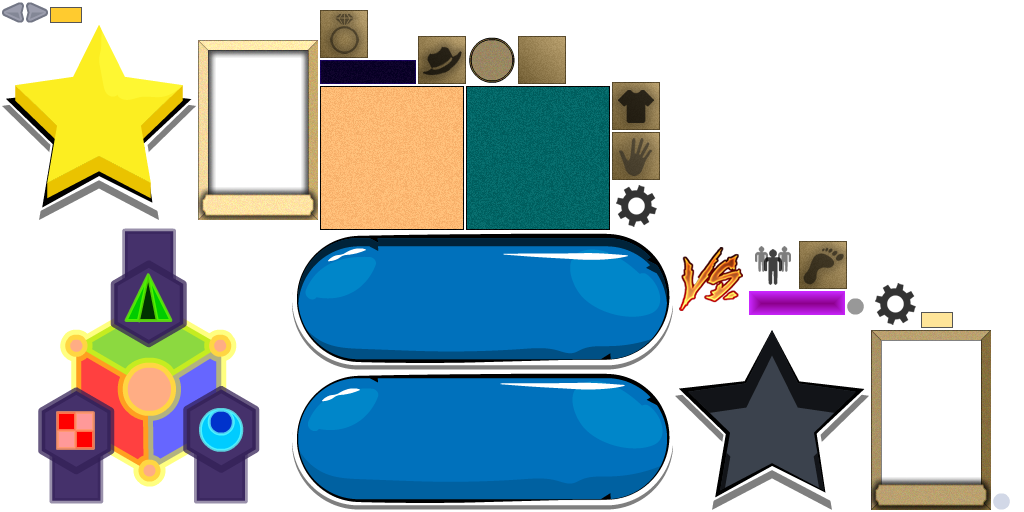
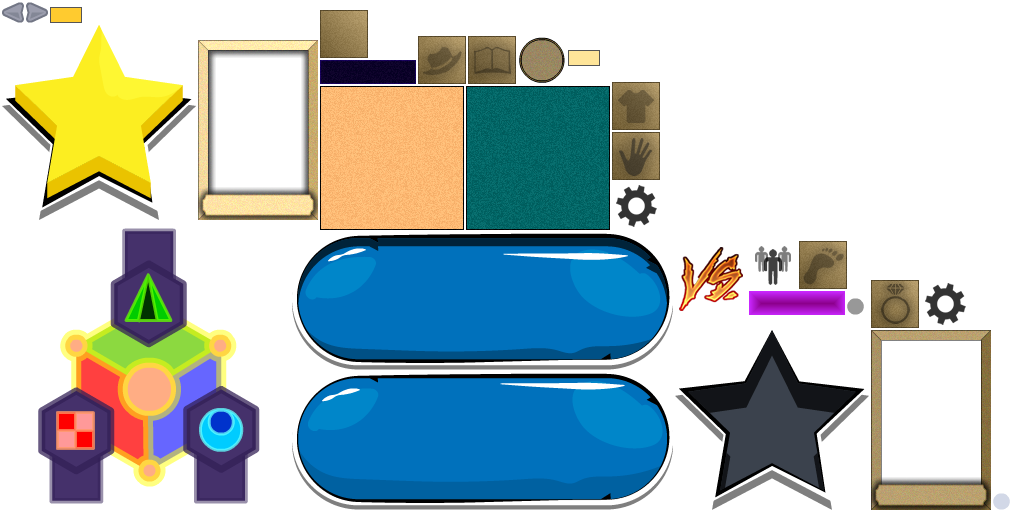
display inventory

diff --git a/android/core/src/com/game7th/swipe/campaign/party/PersonageTabView.kt b/android/core/src/com/game7th/swipe/campaign/party/PersonageTabView.kt
@@ -3,13 +3,18 @@ package com.game7th.swipe.campaign.party
 import com.badlogic.gdx.graphics.Color
 import com.badlogic.gdx.scenes.scene2d.Group
 import com.badlogic.gdx.scenes.scene2d.Touchable
+import com.badlogic.gdx.scenes.scene2d.actions.MoveByAction
+import com.badlogic.gdx.scenes.scene2d.actions.RunnableAction
+import com.badlogic.gdx.scenes.scene2d.actions.SequenceAction
 import com.badlogic.gdx.scenes.scene2d.ui.Image
 import com.badlogic.gdx.scenes.scene2d.ui.Label
 import com.badlogic.gdx.scenes.scene2d.utils.TextureRegionDrawable
 import com.badlogic.gdx.utils.Align
 import com.game7th.metagame.account.AccountService
+import com.game7th.metagame.inventory.GearService
 import com.game7th.metagame.unit.UnitConfig
 import com.game7th.swipe.ScreenContext
+import com.game7th.swipe.campaign.inventory.InventoryEditor
 import com.game7th.swipe.campaign.plist.PersonageVerticalPortrait
 import ktx.actors.onClick
 import kotlin.math.exp
@@ -21,13 +26,14 @@ sealed class UiState {
 
 class PersonageTabView(
         private val context: ScreenContext,
-        private val service: AccountService,
+        private val accountService: AccountService,
+        private val gearService: GearService,
         private val personageId: Int
 ) : Group() {
 
     var state: UiState = UiState.Initial
 
-    private val personage = service.getPersonages().first { it.id == personageId }
+    private val personage = accountService.getPersonages().first { it.id == personageId }
 
     val bg = Image(context.uiAtlas.findRegion("ui_dialog")).apply {
         width = 480f * context.scale
@@ -120,6 +126,8 @@ class PersonageTabView(
         height = 30f * context.scale
     }
 
+    var inventoryView: InventoryEditor? = null
+
     init {
         addActor(bg)
         addActor(portrait)
@@ -147,6 +155,10 @@ class PersonageTabView(
         }
     }
 
+    fun hide() {
+        transiteUiState(UiState.Initial)
+    }
+
     private fun transiteUiState(state: UiState) {
         when (this.state) {
             is UiState.Gear -> hideGear()
@@ -161,9 +173,20 @@ class PersonageTabView(
 
     private fun showGear() {
         buttonGear.drawable = TextureRegionDrawable(context.uiAtlas.findRegion("icon_gear_focused"))
+        inventoryView = InventoryEditor(context, accountService, gearService, personageId).apply {
+            y = (240f - 200f) * context.scale
+            addAction(MoveByAction().apply { amountY = 200f * context.scale; duration = 0.2f })
+        }
+        addActor(inventoryView)
+        inventoryView?.zIndex = 0
     }
 
     private fun hideGear() {
         buttonGear.drawable = TextureRegionDrawable(context.uiAtlas.findRegion("icon_gear"))
+        inventoryView?.let { inventory ->
+             inventory.addAction(SequenceAction(
+                MoveByAction().apply { amountY = -200f * context.scale; duration = 0.2f },
+                RunnableAction().apply { setRunnable { inventory.remove() } }
+        )) }
     }
 }

diff --git a/android/core/src/com/game7th/swipe/campaign/inventory/InventoryEditor.kt b/android/core/src/com/game7th/swipe/campaign/inventory/InventoryEditor.kt
@@ -1,10 +1,73 @@
 package com.game7th.swipe.campaign.inventory
 
+import com.badlogic.gdx.scenes.scene2d.Group
+import com.badlogic.gdx.scenes.scene2d.ui.Image
 import com.game7th.metagame.account.AccountService
+import com.game7th.metagame.inventory.GearService
 import com.game7th.swipe.ScreenContext
 
 class InventoryEditor(
         private val context: ScreenContext,
-        private val service: AccountService
-) {
+        private val accountService: AccountService,
+        private val gearService: GearService,
+        private val personageId: Int
+) : Group() {
+
+    private val bg = Image(context.uiAtlas.findRegion("ui_dialog")).apply {
+        width = context.scale * 480f
+        height = context.scale * 200f
+    }
+
+    private val personageBgs = Group().apply {
+        x = 10f * context.scale
+        y = 10f * context.scale
+    }
+
+    private val textures = listOf("ui_item_bg_book", "ui_item_bg_boots", "ui_item_bg_ring", "ui_item_bg_body", "ui_item_bg_hand", "ui_item_bg_hat")
+
+    val lx = 170f * context.scale
+    val ly = 10f * context.scale
+
+    val panelItems = Group().apply {
+        x = lx
+        y = ly
+    }
+
+    init {
+        addActor(bg)
+        addActor(personageBgs)
+        addActor(panelItems)
+
+        textures.forEachIndexed { index, texture ->
+            val bg = Image(context.uiAtlas.findRegion(texture)).apply {
+                x = if (index % 2 == 0) 0f else 60f * context.scale
+                y = (index / 2) * 60f * context.scale
+                width = 60f * context.scale
+                height = 60f * context.scale
+            }
+            personageBgs.addActor(bg)
+        }
+
+        val items = gearService.listInventory()
+        val emptyItems = 15 - items.size
+        items.forEachIndexed { index, item ->
+            val itemView = ItemView(context, item, true).apply {
+                x = (index / 3) * 60f * context.scale
+                y = (120f - (index % 3) * 60f) * context.scale
+                width = 60f
+                height = 60f
+            }
+            panelItems.addActor(itemView)
+        }
+        (1..emptyItems).forEach {
+            val itemView = ItemView(context, null, true).apply {
+                val index = items.size + it - 1
+                x = (index / 3) * 60f * context.scale
+                y = (120f - (index % 3) * 60f) * context.scale
+                width = 60f
+                height = 60f
+            }
+            panelItems.addActor(itemView)
+        }
+    }
 }

diff --git a/android/core/src/com/game7th/swipe/campaign/party/PartyView.kt b/android/core/src/com/game7th/swipe/campaign/party/PartyView.kt
@@ -1,6 +1,5 @@
 package com.game7th.swipe.campaign.party
 
-import com.badlogic.gdx.scenes.scene2d.Action
 import com.badlogic.gdx.scenes.scene2d.Group
 import com.badlogic.gdx.scenes.scene2d.actions.MoveByAction
 import com.badlogic.gdx.scenes.scene2d.actions.RunnableAction
@@ -8,17 +7,19 @@ import com.badlogic.gdx.scenes.scene2d.actions.SequenceAction
 import com.badlogic.gdx.scenes.scene2d.ui.Image
 import com.badlogic.gdx.scenes.scene2d.ui.ScrollPane
 import com.game7th.metagame.account.AccountService
+import com.game7th.metagame.inventory.GearService
 import com.game7th.metagame.unit.UnitConfig
 import com.game7th.swipe.ScreenContext
 import com.game7th.swipe.campaign.plist.PersonageScrollActor
 
 class PartyView(
         private val context: ScreenContext,
-        private val service: AccountService
+        private val accountService: AccountService,
+        private val gearService: GearService
 ) : Group() {
 
     val browserHeight = context.scale * 150f
-    val personagesView = PersonageScrollActor(context, service.getPersonages().map { UnitConfig(it.unit, it.level) }, browserHeight, true, -1).apply {
+    val personagesView = PersonageScrollActor(context, accountService.getPersonages().map { UnitConfig(it.unit, it.level) }, browserHeight, true, -1).apply {
         y = 10f * context.scale
         x = 10f * context.scale
     }
@@ -47,7 +48,7 @@ class PartyView(
             //we are probably show detailView
             val needAnimation = detailView == null
             detailView?.remove()
-            detailView = PersonageTabView(context, service, service.getPersonages()[index].id)
+            detailView = PersonageTabView(context, accountService, gearService, accountService.getPersonages()[index].id)
             addActor(detailView)
             isDetailsShown = true
 
@@ -90,6 +91,7 @@ class PartyView(
 
     fun animateHide() {
         val shift = browserHeight + 2 * context.scale * 10f + (if (isDetailsShown) 200f * context.scale else 0f)
+        detailView?.hide()
         addAction(SequenceAction(
                 MoveByAction().apply {
                     amountY = -shift

diff --git a/android/core/src/com/game7th/swipe/campaign/inventory/ItemView.kt b/android/core/src/com/game7th/swipe/campaign/inventory/ItemView.kt
@@ -1,0 +1,48 @@
+package com.game7th.swipe.campaign.inventory
+
+import com.badlogic.gdx.graphics.Color
+import com.badlogic.gdx.scenes.scene2d.Group
+import com.badlogic.gdx.scenes.scene2d.ui.Image
+import com.badlogic.gdx.scenes.scene2d.ui.Label
+import com.badlogic.gdx.utils.Align
+import com.game7th.metagame.inventory.InventoryItem
+import com.game7th.swipe.ScreenContext
+
+class ItemView(
+        private val context: ScreenContext,
+        private val item: InventoryItem?,
+        backgroundShown: Boolean
+) : Group() {
+
+    init {
+        println(item?.name)
+    }
+
+    val bg = Image(context.uiAtlas.findRegion("ui_item_bg")).apply {
+        width = 60f * context.scale
+        height = 60f * context.scale
+        isVisible = backgroundShown
+    }
+
+    val image: Image? = item?.name?.let {
+        Image(context.battleAtlas.findRegion("art_${it}")).apply {
+            width = 60f * context.scale
+            height = 60f * context.scale
+        }
+    }
+
+    val lvlLabel = Label(item?.level?.toString() ?: "", Label.LabelStyle(context.font, Color.WHITE)).apply {
+        x = 25f * context.scale
+        y = 5f
+        width = 30f * context.scale
+        height = 30f * context.scale
+        setAlignment(Align.bottomRight)
+        setFontScale(20f * context.scale / 36f)
+    }
+
+    init {
+        addActor(bg)
+        image?.let { addActor(it) }
+        addActor(lvlLabel)
+    }
+}

diff --git a/android/metagame/src/main/java/com/game7th/metagame/inventory/GearServiceImpl.kt b/android/metagame/src/main/java/com/game7th/metagame/inventory/GearServiceImpl.kt
@@ -20,7 +20,7 @@ class GearServiceImpl(
         val inventoryString = storage.get(KEY_INVENTORY)
         inventory = if (inventoryString == null) {
             val initialData = InventoryPool(
-                    items = (1..10).map { InventoryItem(gbFlatBody = it, level = it, node = ItemNode.BODY, name = "TEST_ITEM") }.toMutableList()
+                    items = (1..10).map { InventoryItem(gbFlatArmor = it, level = it, node = ItemNode.BODY, name = "SHIELD") }.toMutableList()
             )
             initialData
         } else {
@@ -53,6 +53,8 @@ class GearServiceImpl(
         }
         storage.put(KEY_INVENTORY, gson.toJson(inventory)) //save inventory to storage
     }
+
+    override fun listInventory() = inventory.items
 
     companion object {
         const val KEY_INVENTORY = "account.inventory"

diff --git a/android/core/src/com/game7th/swipe/campaign/ActScreen.kt b/android/core/src/com/game7th/swipe/campaign/ActScreen.kt
@@ -13,6 +13,7 @@ import com.badlogic.gdx.math.Rectangle
 import com.badlogic.gdx.scenes.scene2d.Stage
 import com.badlogic.gdx.utils.viewport.ScreenViewport
 import com.game7th.metagame.campaign.*
+import com.game7th.metagame.inventory.GearService
 import com.game7th.metagame.state.ActProgressState
 import com.game7th.metagame.state.LocationProgressState
 import com.game7th.swipe.ScreenContext
@@ -314,7 +315,7 @@ class ActScreen(
     }
 
     private fun showPartyUi() {
-        partyUi = PartyView(context, game.accountService).apply {
+        partyUi = PartyView(context, game.accountService, game.gearService).apply {
             y = context.scale * 48f
         }
         stage.addActor(partyUi)

diff --git a/android/metagame/src/main/java/com/game7th/metagame/inventory/GearService.kt b/android/metagame/src/main/java/com/game7th/metagame/inventory/GearService.kt
@@ -5,4 +5,5 @@ import com.game7th.metagame.account.RewardData
 interface GearService {
     fun getArtifactReward(level: Int): RewardData.ArtifactRewardData?
     fun addRewards(rewards: List<RewardData>)
+    fun listInventory(): List<InventoryItem>
 }
